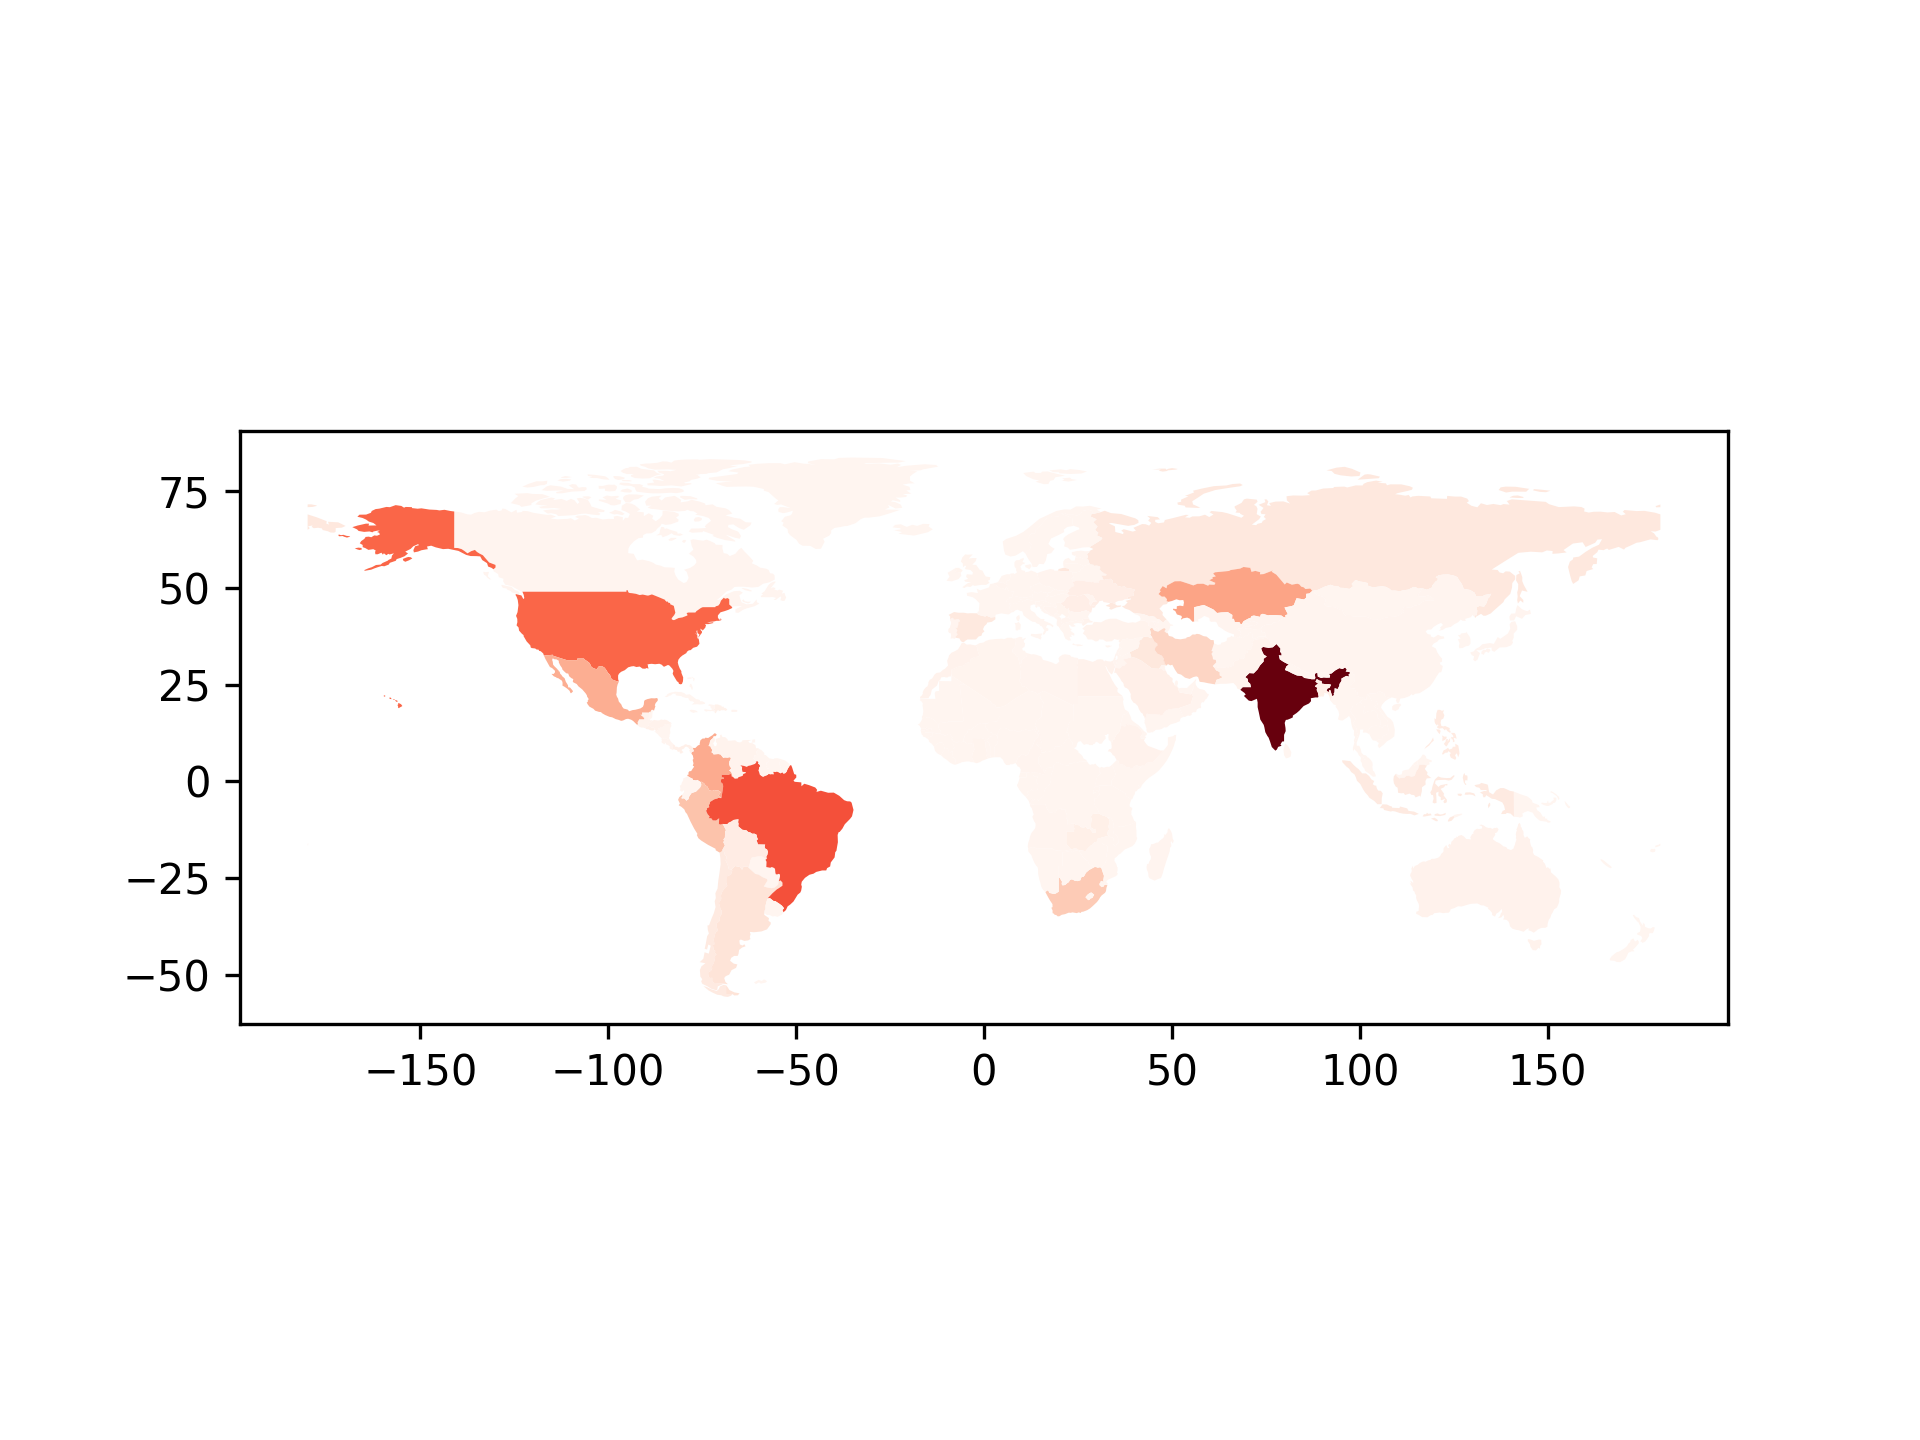
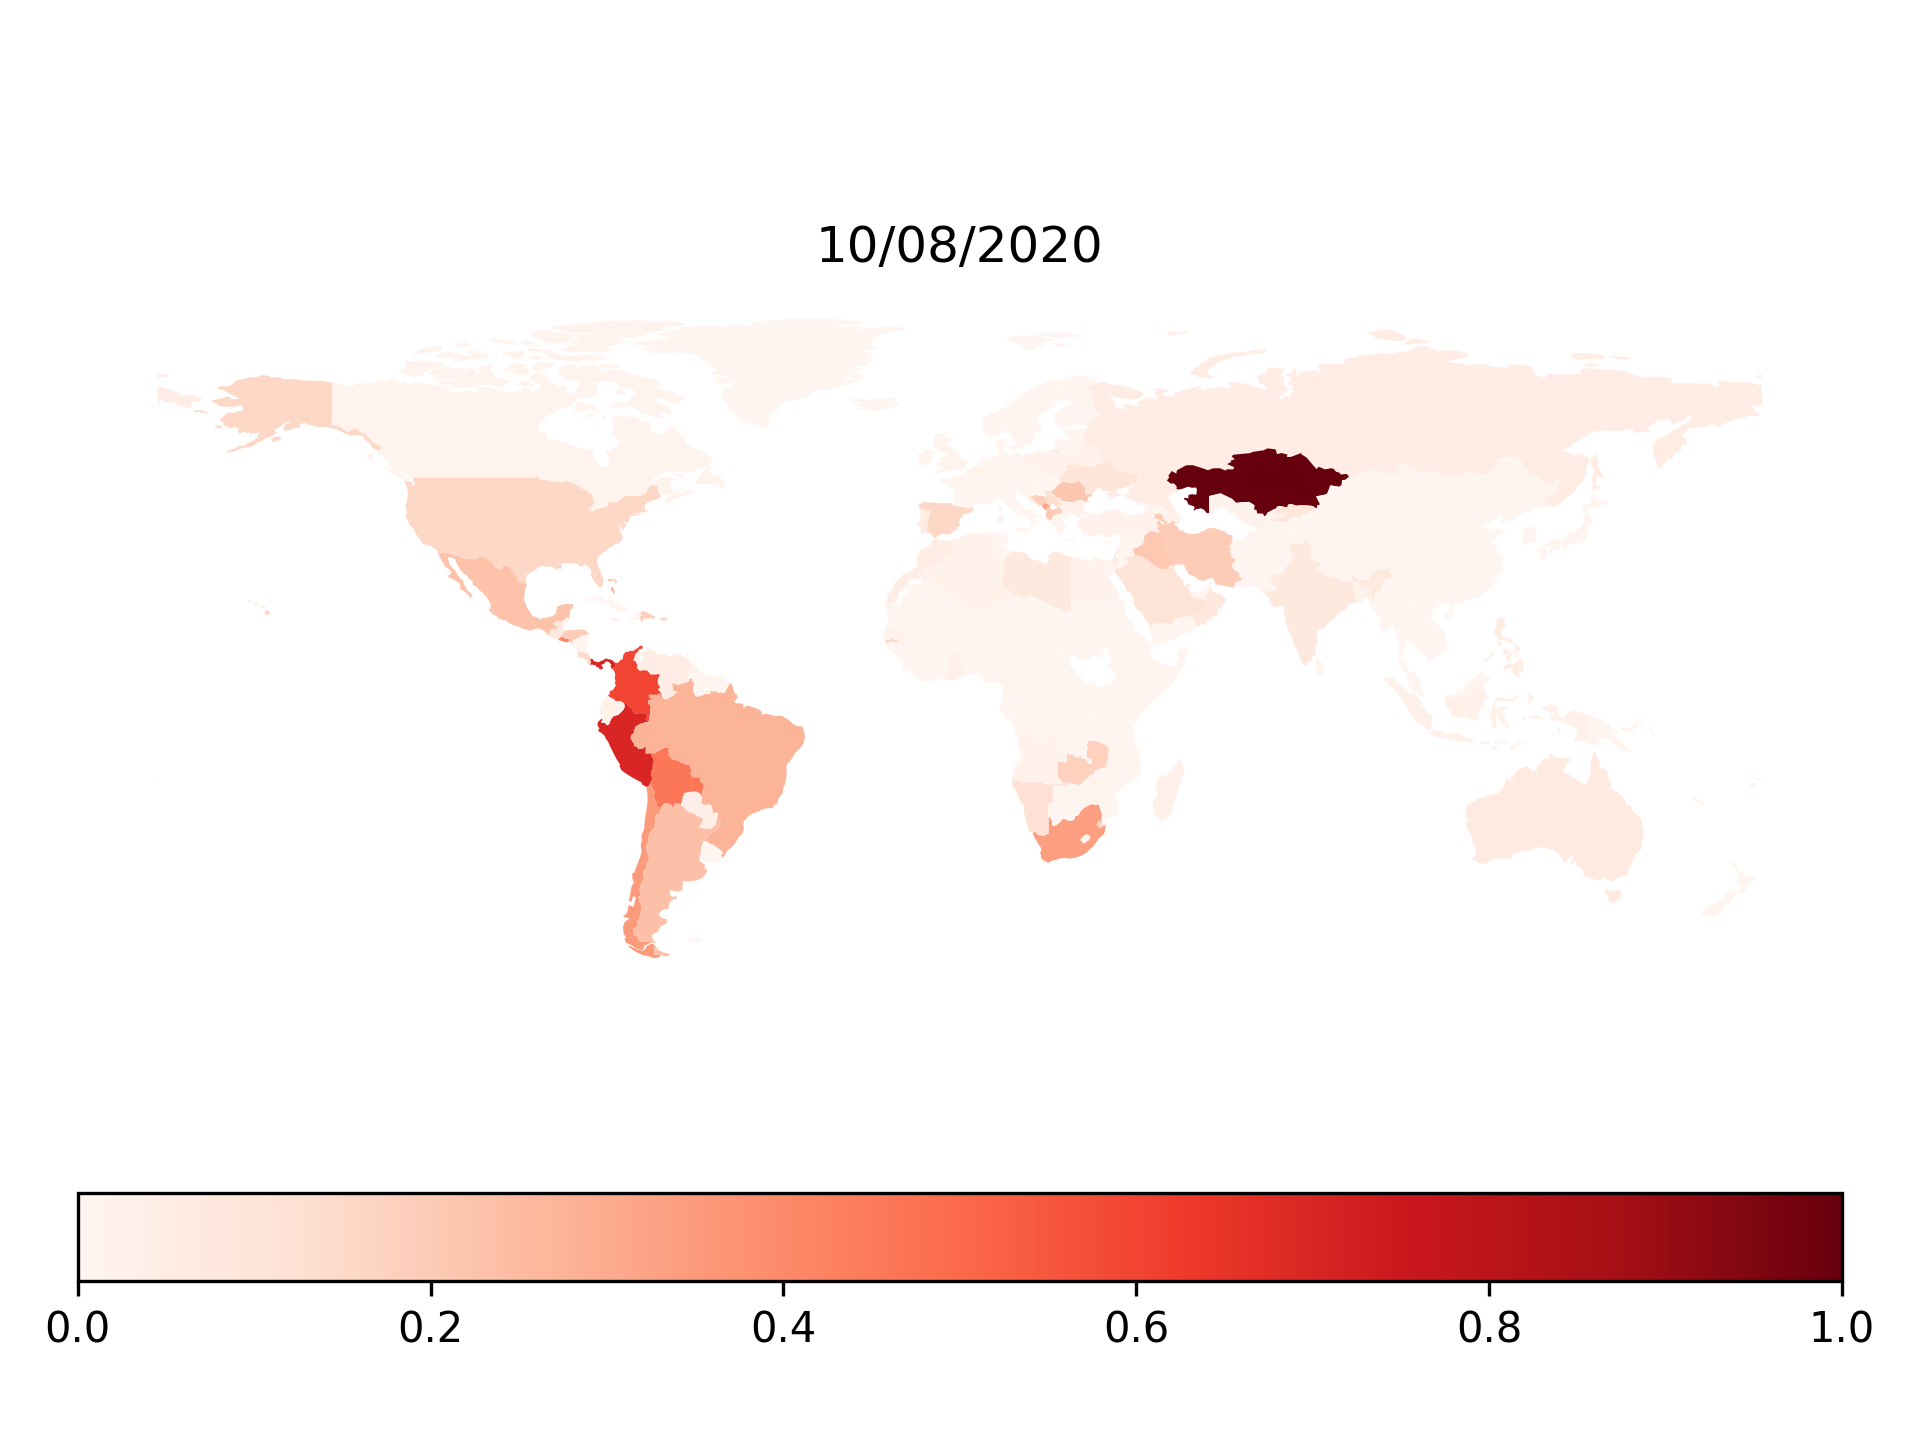
gif

diff --git a/visualize/plot_for_gif.py b/visualize/plot_for_gif.py
@@ -8,34 +8,9 @@ import geopandas as gpd
 import geoplot
 import mapclassify
 import matplotlib.pyplot as plt
+import matplotlib
 
 import pdb
-
-def get_cumulative(df):
-    '''Calculate cumulative cases and deaths
-    '''
-    #Cumulative calcs
-    countries = ecdc_data['countriesAndTerritories'].unique()
-
-    ecdc_data['cumulative_deaths'] = 0
-    ecdc_data['cumulative_cases'] = 0
-    for country in countries:
-        country_data = ecdc_data[ecdc_data['countriesAndTerritories']==country]
-        index = country_data.index
-        country_data = country_data.reset_index()
-        cum_deaths = country_data['deaths'].cumsum().values
-        cum_cases = country_data['cases'].cumsum().values
-        ecdc_data.loc[index,'cumulative_deaths']=np.array(cum_deaths)
-        ecdc_data.loc[index,'cumulative_cases']=np.array(cum_cases)
-
-
-def json_data(selectedDate):
-    df_date = ecdc_df[ecdc_df['dateRep']==selectedDate]
-    merged = gdf.merge(df_date, left_on = 'country_code', right_on ='countryterritoryCode', how = 'left')
-    merged.fillna('No data', inplace = True)
-    merged_json = json.loads(merged.to_json())
-    json_data = json.dumps(merged_json)
-    return json_data
 
 ########MAIN#########
 #ecdc data
@@ -43,6 +18,8 @@ ecdc_df = pd.read_csv('ecdc_20200817.csv')
 ecdc_df['date'] = pd.to_datetime(ecdc_df['dateRep'], format='%d/%m/%Y')
 ecdc_df = ecdc_df.sort_values(by=['date'], ascending=False)
 ecdc_df = ecdc_df.drop(columns=['date'])
+ecdc_df['deaths_per_100000'] = 100000*ecdc_df['deaths']/ecdc_df['popData2019']
+
 
 #Read shapefile using Geopandas
 shapefile = './countries_110m/ne_110m_admin_0_countries.shp'
@@ -55,14 +32,35 @@ gdf = gdf.drop(gdf.index[159])
 #Input GeoJSON source that contains features for plotting.
 dates = ecdc_df['dateRep'].unique()
 
+def plot_colorbar():
+    '''Plots a stand alone colorbar
+    '''
+    fig,ax = plt.subplots(figsize=(10,10))
 
+    cb = matplotlib.colorbar.ColorbarBase(ax, orientation='horizontal',cmap=matplotlib.cm.Reds)
+    fig.tight_layout()
+    plt.show()
 
-
-for date in dates:
+#Colorbar
+#plot_colorbar()
+vmin = 0
+vmax = 1
+names = []
+for i in range(0,len(dates),7):
+    date = dates[i]
     ecdc_date = ecdc_df[ecdc_df['dateRep']==date]
     world = pd.merge(gdf, ecdc_date, left_on='country_code', right_on='countryterritoryCode', how='right')
-    world.plot(column='deaths', cmap='Reds')
+    fig,ax = plt.subplots()
+    world.plot(ax=ax,column='deaths_per_100000', cmap='Reds',legend=True, vmin=vmin, vmax=vmax,legend_kwds={'orientation':'horizontal'})
+    ax.axis('off')
 
+    ax.set_title(date)
+    fig.tight_layout()
     date = date.split('/')
-    plt.savefig('./deaths/world'+date[0]+'_'+date[1]+'_'+date[2]+'_deaths.png', format='png', dpi=300)
+    outname='./deaths/world'+date[0]+'_'+date[1]+'_'+date[2]+'_deaths.png'
+    fig.savefig(outname, format='png', dpi=300)
     plt.close()
+    names.append('world'+date[0]+'_'+date[1]+'_'+date[2]+'_deaths.png')
+
+for name in names:
+    print(name+' ')
